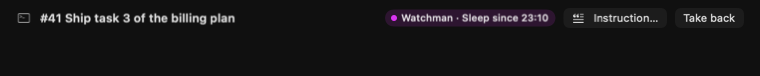
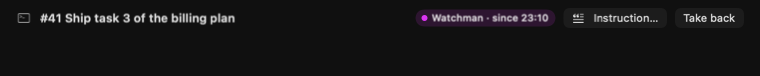
docs(watchman): no "Sleep" on the arming surfaces (D8, #2134)

Changed region(s): [[0.4842, 0.1316, 0.6658, 0.3421]]

diff --git a/WatchtowerDesktop/Tests/DesignShots/DesignShotFixtures+WatchmanTuning.swift b/WatchtowerDesktop/Tests/DesignShots/DesignShotFixtures+WatchmanTuning.swift
@@ -88,7 +88,7 @@ enum WatchmanTuningMockCopy {
         + "wait and are decided once it finishes — or answer them yourself."
     static let analyticsLine = "Agent analytics turned on — Watchman learns from your sessions"
     static let limitsLine = "Merges to main, releases, pushes of tags and outward messages always wait for you"
-    static let stripArmed = "Watchman · Sleep since 23:10"
+    static let stripArmed = "Watchman · since 23:10"
     static let stripLearning = "Watchman · learning 42%"
     static let instructionButton = "Instruction…"
     static let takeBack = "Take back"

diff --git a/docs/superpowers/specs/2026-11-21-watchman-tuning-design.md b/docs/superpowers/specs/2026-11-21-watchman-tuning-design.md
@@ -19,6 +19,7 @@ The first real night with Watchman (2026-11-20) showed four gaps. This spec clos
 - D4 — The stall ping must tell a stopped agent from one whose sub-agents or background jobs still run (ask #1699, owner's comment "надо понимать что бегут там агенты или фоновая задача"). The thresholds (3 min, 3 pings) were this spec's proposal, **approved with the spec (ask #1705)** (he answered "тут надо смотреть"); they are constants in one place (`watchmanact.StallAfter`, `StallMaxPings`) so a later change is one line.
 - D5 — **Approved with the spec (ask #1705):** asks, checks, handovers and reviews asked while learning **wait queued** instead of being parked and requeued later — the outcome ask #1699 approved ("decided after learning") with one state fewer. Permission prompts are the exception: they keep parking to the owner while learning (§3), since an agent blocks on one.
 - D6 — **Approved with the spec (ask #1705):** the PROJ-13 amendment of §4a (a handed session reads the owner as away in the Stop guard).
+- D8 — No mode word on the arming surfaces: "Sleep" (phase 2's only mode) means nothing to the owner (conversation, 2026-11-21). The strip chip reads `Watchman · since <HH:MM>` (no time: `Watchman · on`), the target panel `Watchman has this target · since <HH:MM>`, the tray `Watchman · since <HH:MM> · <n> sessions`; `WatchmanArmingCopy.sleepSince` becomes `since(_:)`. Done in Task 2b.
 - D7 — The instruction outlives **Take back** (stored per session/target, not on the arming row), so handing over again pre-fills it (review round 1).
 
 ## 1. Icon (Task 1)
@@ -71,7 +72,7 @@ All copy lives in `WatchmanArmingCopy` (WatchtowerCore) with tests.
 - Learning starts when Watchman is turned on for a workbench, by any of: Settings **Start Learning**, `watchman learn --start`, the first hand-over on the workbench. All three already set `watchman_workbenches.enabled_at`; they now also wake the daemon.
 - A new daemon goroutine, the **learner** (`startWatchmanLearner`), woken by that wake and checked each cycle: for each workbench that is on and not learned (`learned_through` unset or `relabel_pending > 0`), it runs `watchman.Learn` and the relabel pass batch after batch with no time budget until both are done. Between batches it checks the context (shutdown) and background-AI consent (BGAI-01: paused → it stops and resumes on the next wake or cycle).
 - One learner at a time per workbench: the learner and `watchman learn --start`'s own pass take `<workspace>/watchman/learn-<workbench>.lock` (flock, non-blocking); the other skips. The per-cycle `phaseWatchmanLearn` then handles only learned workbenches (new decisions, 5-min budget as today).
-- Progress shows as today: Settings `Learning… <written> of <estimated>`; the strip chip of an armed session on a workbench still learning reads `Watchman · learning <p>%` instead of `Sleep since <HH:MM>`.
+- Progress shows as today: Settings `Learning… <written> of <estimated>`; the strip chip of an armed session on a workbench still learning reads `Watchman · learning <p>%` instead of `since <HH:MM>`.
 
 ### Questions asked meanwhile (D5)
 

diff --git a/docs/superpowers/plans/2026-11-21-watchman-tuning.md b/docs/superpowers/plans/2026-11-21-watchman-tuning.md
@@ -99,6 +99,7 @@ Board: Task 1 = #2135, 2a = #2140, 2b = #2141, 3a = #2142, 3b = #2143, 4a = #214
 - Consumes: Task 2a CLI flags and JSON; Task 1 `WatchmanStyle.icon`.
 - Produces: `WatchmanCenter.handTo(_:workbench:)` always presents the sheet; `WatchmanCenter.confirmSheet(token:instruction:)`; `WatchmanCenter.editInstruction(_ scope: WatchmanArmScope)`; `WatchmanArmSheetContent.mode: .firstTime | .short | .edit | .tray`.
 
+- [ ] D8 (no "Sleep"): `WatchmanArmingCopy.sleepSince` → `since(_:calendar:)` returning `since HH:MM` (nil → `on`); `stripArmed` → `Watchman · since 03:11` / `Watchman · on`; `targetArmed` → `Watchman has this target · since 03:11`; `trayStatus` → `Watchman · since 01:40 · 3 sessions`; update their tests and every caller (grep `sleepSince`).
 - [ ] Copy tests pin: `fieldLabel`, `placeholder`, `handOver = "Hand over"`, `editTitle`, `save`, `instructionButton = "Instruction…"`, `saveFailed(_:) -> "Could not save: \(error)"`, `counter(_:) -> "\(n) / 2000"` shown only past 1800, the new learning line of the first-time sheet (exact spec text with the estimate).
 - [ ] Center tests: hand-over with text runs `watchman arm --session N --instructions-file -` with the text on stdin; empty field on the **tray** passes no flag; empty field on a single session passes the flag only when a stored text was cleared by the owner (field edited to empty); CLI failure keeps the sheet, text and shows `saveFailed` + Retry; Retry re-runs; edit mode runs `watchman instruct`.
 - [ ] View: field focused on open; Return = confirm, ⌥Return = newline; busy disables the buttons and shows a spinner; pre-filled from `instructions` of the status (session) or `watchman instruct`'s stored text read for a target.
